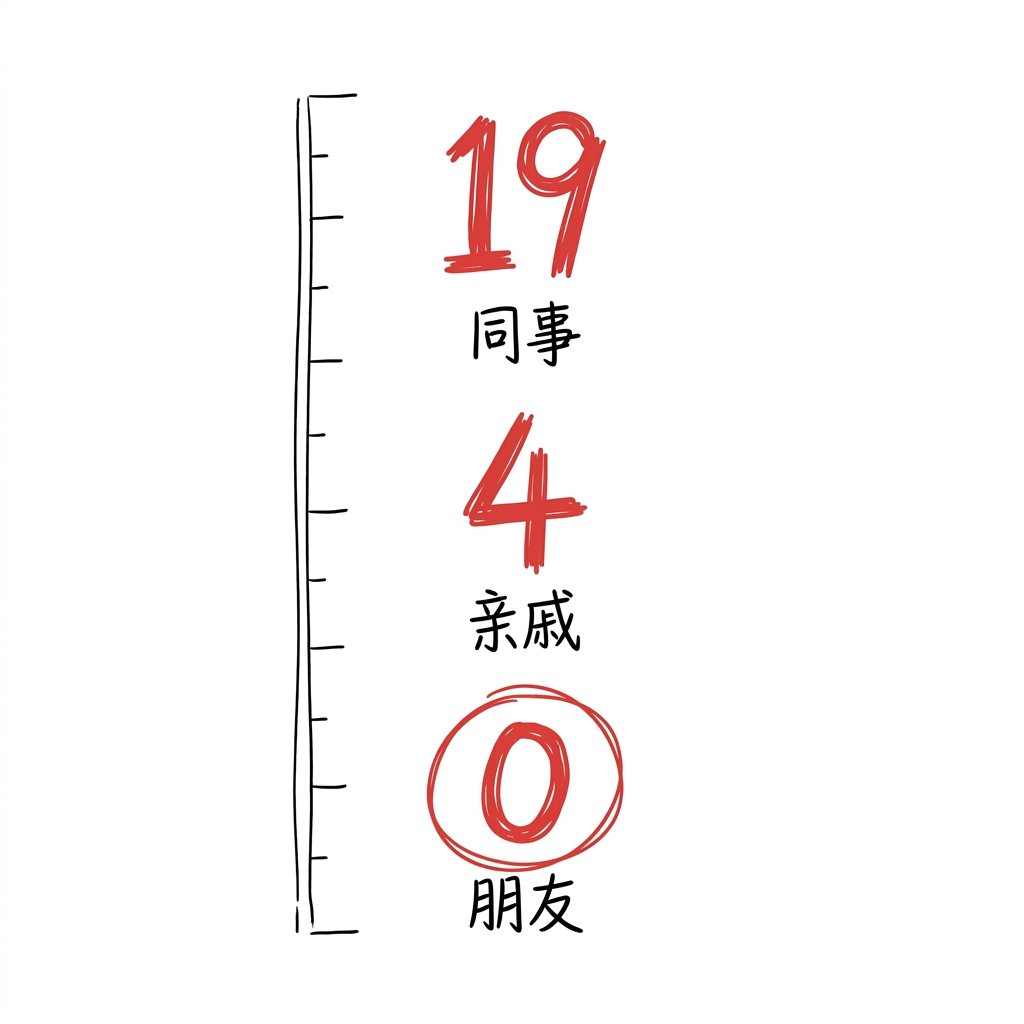
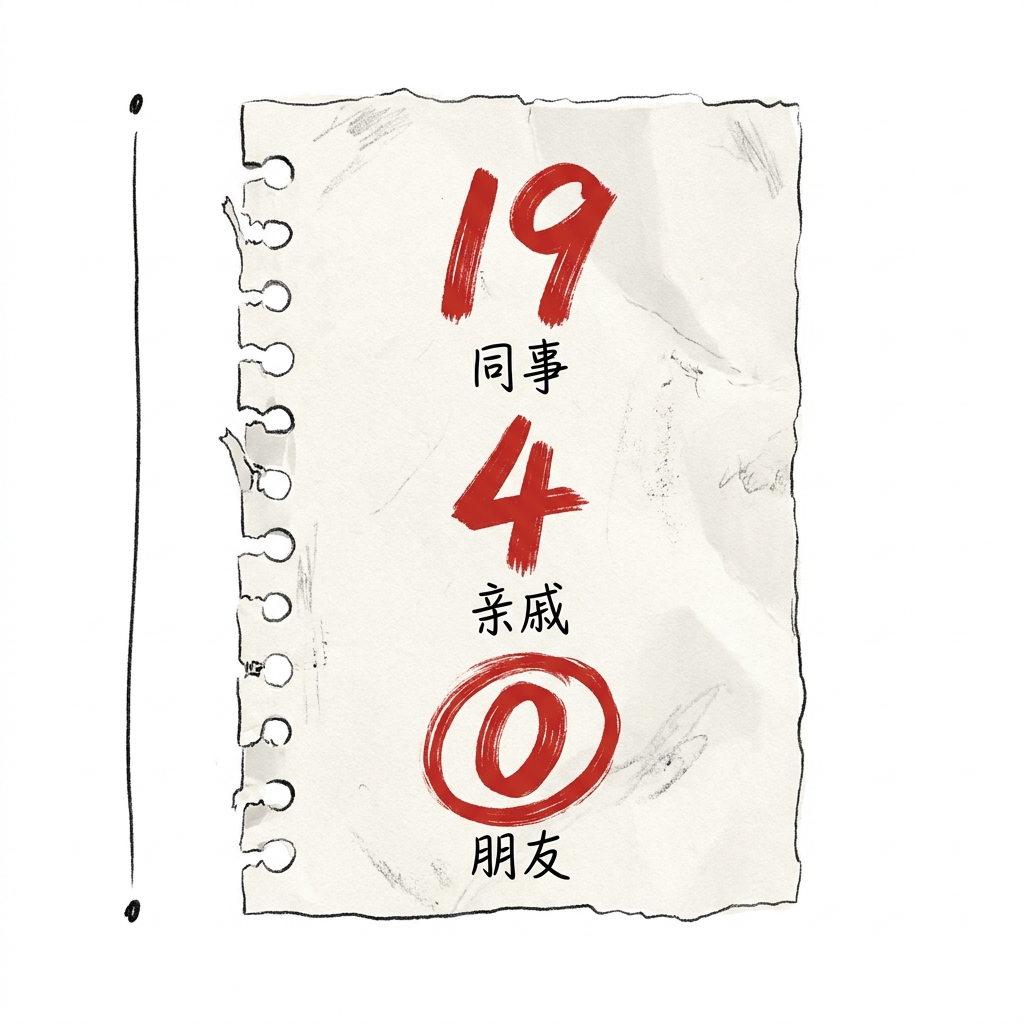
v2.8.6 修正: 005/006 配图改回撕下草稿纸风格 (跟 003/004 同款)
之前 v2.8.6 尝试改成纯白底 + 红色大字, 用户反馈'还不如之前的', 改回原样。

005/006 现在跟 003/004 完全一致:
- 米色撕下草稿纸 (锯齿边 + 左侧装订孔)
- 红色 brush stroke 装饰
- 黑色手写文字 + 红色大字数字
- 简洁插画元素

文字内容不变 (屏蔽朋友圈 23/0, 工位 1 小时 12/0), 只是配图风格改回。
README + content.md + DOUYIN-DRAFT-IDS 同步更新'突出线条' 的真正含义 (在草稿纸框架内把线条做得更松, 不是去掉草稿纸)

diff --git a/doc/douyin/README.md b/doc/douyin/README.md
@@ -61,9 +61,9 @@ tags:                 # 3-5 个话题标签
   - 4-6 张: 中等 (经典结构: 封面 + 引入 + 转折 + 图解 + 扎心 + 可选 CTA)
   - 7-9 张: 完整 (适合多步骤解释/案例对比/概念拆解)
   - 默认 4-6 张, 按主题增减
-- **风格**: xiaofan-ink 风格 (白底手绘/线条) + 心理学元素
-  - **v2.8.6 起 (8/25)**: 不再用"撕下草稿纸" 框 (锯齿边+装订孔), 改用**纯白底 + 黑色线条 + 红色高亮** (跟公众号 IP reference / 015 FREE banner 风格一致)
-  - 撕下草稿纸被砍原因: 用户反馈"突出线条, 不要突出草稿画"
+- **风格**: xiaofan-ink 风格 (白底手绘/撕下草稿纸/线条) + 心理学元素
+  - 撕下草稿纸风格: 米色草稿纸 + 锯齿边 + 左侧装订孔 + 红色 brush stroke 装饰
+  - 005/006 (v2.8.6) 跟 003/004 保持同款风格, 用户反馈"突出线条" 是在草稿纸框架内把线条做得更松/更飞白,不是去掉草稿纸
 - **新流程前置**: 写每篇之前先列"配图说明表" (在 content.md 末尾), 标每张图的内容/风格/作用
 - **抖音配图全状态** (不画人物动作), 跟公众号"动作型→IP" 规则解耦
 - **每张配图配 1 个心理学插画元素** (v2.7.2 起, 不只是文字, 还要有 1 个概念图: 天平/账本/箭头/对话气泡/小剪影/问号)

diff --git a/doc/douyin/005-mute-23-friends/content.md b/doc/douyin/005-mute-23-friends/content.md
@@ -66,9 +66,9 @@ tags:
 
 ---
 
-# 配图说明 (v2.8.6 新风格: 纯白底 + 黑色线条 + 红色高亮)
+# 配图说明 (跟 003/004 撕下草稿纸同款风格)
 
-> **新风格调整 (8/25 v2.8.6)**: 不再用"撕下草稿纸" 框 (锯齿边+装订孔), 改用纯白底 + 黑色线条 + 红色高亮, 跟公众号 IP reference / 015 FREE banner 风格一致。
+> **风格 (v2.8.6 修正)**: 用户反馈"突出线条" 是在撕下草稿纸框架内把线条做得更松, 005/006 跟 003/004 保持完全一致的"撕下草稿纸 + 红色 brush stroke + 黑色手写" 风格。
 
 | 文件 | 内容 | 风格 | 作用 |
 |---|---|---|---|

diff --git a/doc/douyin/006-fake-busy/content.md b/doc/douyin/006-fake-busy/content.md
@@ -73,9 +73,9 @@ tags:
 
 ---
 
-# 配图说明 (v2.8.6 新风格: 纯白底 + 黑色线条 + 红色高亮)
+# 配图说明 (跟 003/004 撕下草稿纸同款风格)
 
-> **新风格调整 (8/25 v2.8.6)**: 不再用"撕下草稿纸" 框, 改用纯白底 + 黑色线条 + 红色高亮, 跟 IP reference / 015 风格一致。
+> **风格 (v2.8.6 修正)**: 用户反馈"突出线条" 是在撕下草稿纸框架内把线条做得更松, 005/006 跟 003/004 保持完全一致的"撕下草稿纸 + 红色 brush stroke + 黑色手写" 风格。
 
 | 文件 | 内容 | 风格 | 作用 |
 |---|---|---|---|

diff --git a/doc/douyin/DOUYIN-DRAFT-IDS.md b/doc/douyin/DOUYIN-DRAFT-IDS.md
@@ -42,7 +42,7 @@
 - 私密: 屏蔽朋友圈 (005), 假装忙碌 (006)
 - 钩子: 强金句收尾
 
-**新风格 v2.8.6 (8/25)**: 不再用"撕下草稿纸" 框 (锯齿边+装订孔), 改用**纯白底 + 黑色线条 + 红色高亮** (跟公众号 IP reference / 015 FREE banner 风格一致)。
+**风格 (v2.8.6 修正, 8/25)**: 005/006 跟 003/004 保持同款"撕下草稿纸 + 红色 brush stroke + 黑色手写" 风格。 之前 v2.8.6 尝试改成"纯白底 + 红色大字" 风格, 用户反馈"还不如之前的", 改回原样。
 
 ---
 
